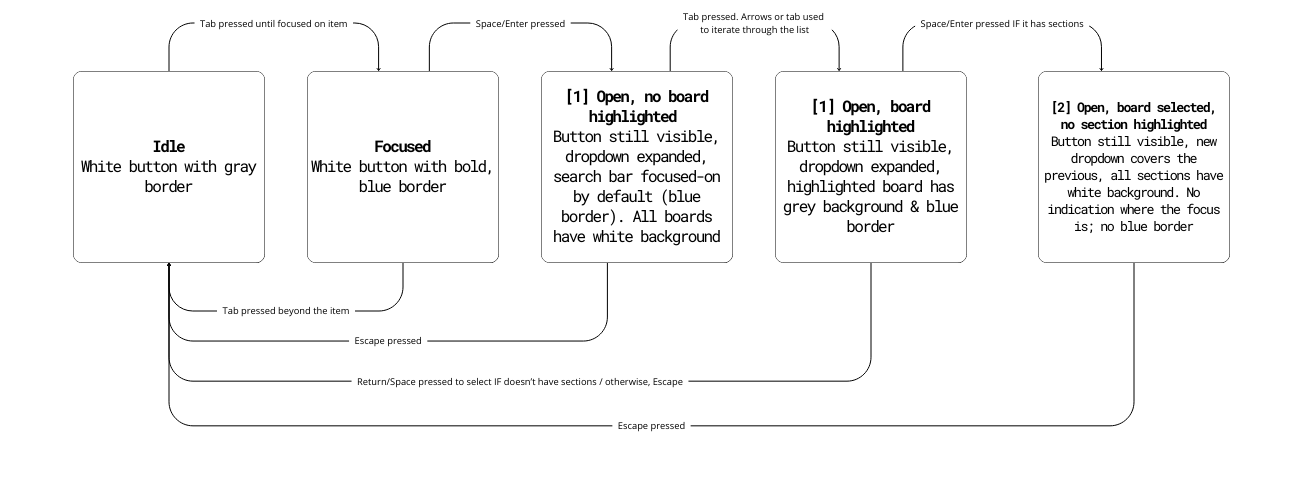
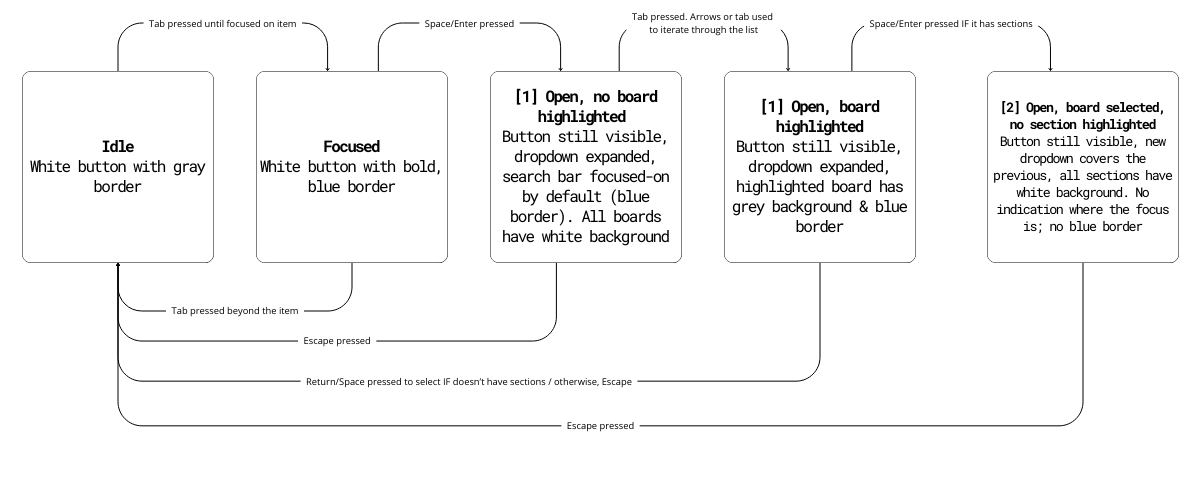
feat: all fixed

diff --git a/styles.css b/styles.css
@@ -154,10 +154,11 @@ section a {
   display: flex;
   justify-content: center;
   align-items: flex-start;
+  gap:-10px;
 }
 
 .states-all img {
-  width: 620px;
+  width: 600px;
   height: auto;
 }
 
@@ -166,7 +167,6 @@ section a {
   flex-direction: column;
   justify-content: center;
   align-items: center;
-  gap: 20px;
 }
 
 /* Footer */
